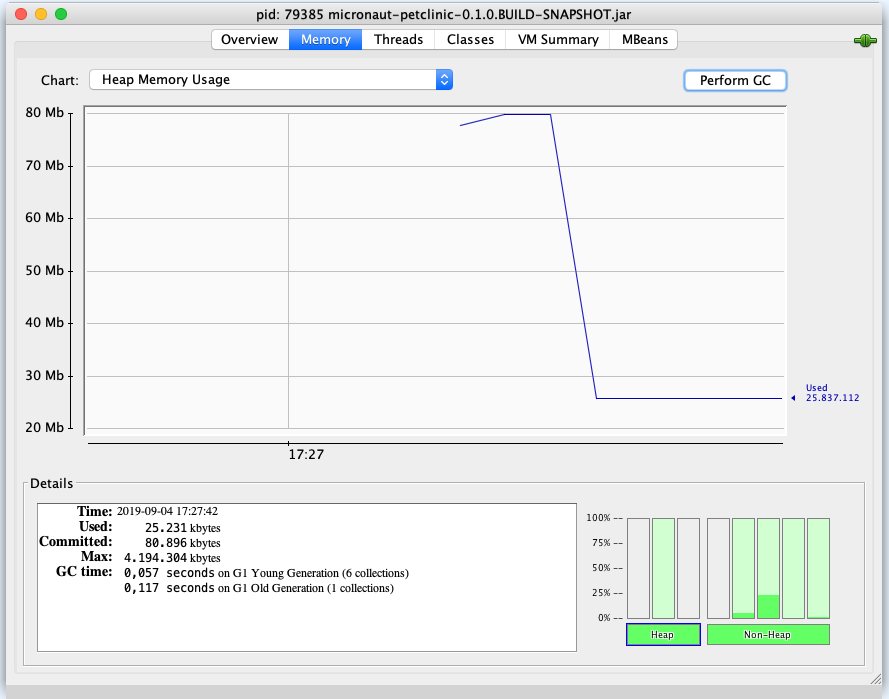
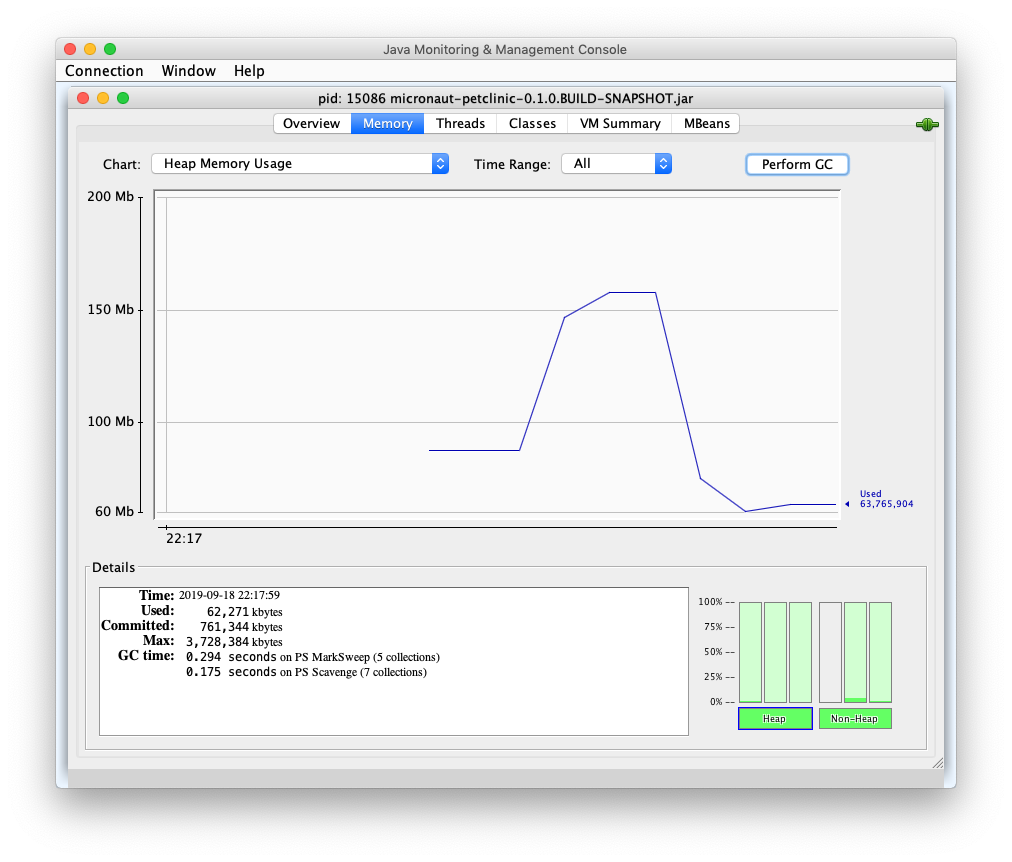
Update readme

diff --git a/readme.md b/readme.md
@@ -1,166 +1,138 @@
 # Introduction
 
-The aim of this repo is to measure some features of an Micronaut application and its Docker image. 
-Instead of creating a new Micronaut demo from scratch, it is based on [Micronaut migration](https://github.com/graemerocher/micronaut-petclinic) of [Spring PetClinic](https://github.com/spring-projects/spring-petclinic).
+The aim of this repo is to measure some features of a Micronaut application and its Docker image. 
+Instead of creating a new Micronaut demo from scratch, it is based on 
+[Micronaut migration](https://github.com/graemerocher/micronaut-petclinic) 
+of [Spring PetClinic](https://github.com/spring-projects/spring-petclinic).
 
 #  Size
 
-## Micronaut artifact's size
+## Spring Boot artifact's size
 
 Build PetClinic application:
 
 ```
-    git clone https://github.com/wearearima/micronaut-docker-study.git
-    cd micronaut-docker-study
-    ./mvnw clean package
+git clone https://github.com/wearearima/micronaut-docker-study.git
+cd micronaut-docker-study
+./mvnw clean package
 ```
 
 Measure the jar files:
 
 ```
-    ls -lh target/*.jar*
+ls -lh target/*.jar*
 ```
 
 Result:
 
 ```
--rw-r--r--  1 ugaitz  staff    36M Sep  4 16:41 target/micronaut-petclinic-0.1.0.BUILD-SNAPSHOT.jar
--rw-r--r--  1 ugaitz  staff   605K Sep  4 16:40 target/original-micronaut-petclinic-0.1.0.BUILD-SNAPSHOT.jar
+-rw-r--r--  1 inigotelleria  staff    37M Sep 18 22:12 target/micronaut-petclinic-0.1.0.BUILD-SNAPSHOT.jar
+-rw-r--r--  1 inigotelleria  staff   637K Sep 18 22:12 target/original-micronaut-petclinic-0.1.0.BUILD-SNAPSHOT.jar
 ```
 
 The file named `micronaut-petclinic-0.1.0.BUILD-SNAPSHOT` is the resulting fat jar because it includes
-PetClinic's code and its dependencies. The other file, suffixed `.original`, is just PetClinic's code
-without its dependencies. The result is that our code size is `605K` and the dependencies' `36M`. 
-
+PetClinic's code and its dependencies. The other file, prefixed `.original`, is just PetClinic's code
+without its dependencies. The result is that our code size is `637K` and the dependencies' `37M`. 
 
 ## Docker image's size
 
-The original Micronaut PetClinic application already has a Dockerfile to build and run project in GraalVM, 
-for our measurements we have created another Dockerfile.
 Build PetClinic's Docker image:
 
 ```
-    docker-compose -f docker-compose-runjava.yml build
+./mvnw jib:dockerBuild
 ```
 
 Measure the image size:
 
 ```
-    docker image ls | grep micronaut-petclinic-java
+docker image ls | grep micronaut-petclinic
 ```
 
 Result:
 
 ```
-micronaut-petclinic-java        latest              3c0f411ba9c1        15 hours ago        143MB
+micronaut-petclinic                                              0.1.0.BUILD-SNAPSHOT    7607b6166a45        49 years ago        129MB
 ```
 
-We can see that size of the artifact has increased from `36MB` to `143MB`. This is mainly because the 
+We can see that size of the artifact has increased from `36M` to `129MB`. This is mainly because the 
 Docker image includes the JDK and Linux images. Run this command to check it:
 
 ```
-    docker image history micronaut-petclinic-java
+docker image history micronaut-petclinic:0.1.0.BUILD-SNAPSHOT
 ```
 
 The result shows the different layers added to the Docker image:
 
 ```
-➜  micronaut-docker-study git:(master) ✗ docker image history micronaut-petclinic-java
+[micronaut-docker-study] docker image history micronaut-petclinic:0.1.0.BUILD-SNAPSHOT                                                                                                                                                                       master  ✭ ✱
 IMAGE               CREATED             CREATED BY                                      SIZE                COMMENT
-3c0f411ba9c1        15 hours ago        /bin/sh -c #(nop)  CMD ["/bin/sh" "-c" "/usr…   0B                  
-bf33527b993f        15 hours ago        /bin/sh -c #(nop)  EXPOSE 8080                  0B                  
-df1e49f75aa4        15 hours ago        /bin/sh -c #(nop) COPY file:75746e4928644a0a…   37.8MB              
-8bced513ccd7        16 hours ago        /bin/sh -c #(nop)  ARG JAR_FILE                 0B                  
-f2ff0b12ec0f        16 hours ago        /bin/sh -c #(nop)  VOLUME [/tmp]                0B                  
-a3562aa0b991        3 months ago        /bin/sh -c set -x  && apk add --no-cache   o…   99.3MB              
-<missing>           3 months ago        /bin/sh -c #(nop)  ENV JAVA_ALPINE_VERSION=8…   0B                  
-<missing>           3 months ago        /bin/sh -c #(nop)  ENV JAVA_VERSION=8u212       0B                  
-<missing>           3 months ago        /bin/sh -c #(nop)  ENV PATH=/usr/local/sbin:…   0B                  
-<missing>           3 months ago        /bin/sh -c #(nop)  ENV JAVA_HOME=/usr/lib/jv…   0B                  
-<missing>           3 months ago        /bin/sh -c {   echo '#!/bin/sh';   echo 'set…   87B                 
-<missing>           3 months ago        /bin/sh -c #(nop)  ENV LANG=C.UTF-8             0B                  
-<missing>           3 months ago        /bin/sh -c #(nop)  CMD ["/bin/sh"]              0B                  
-<missing>           3 months ago        /bin/sh -c #(nop) ADD file:a86aea1f3a7d68f6a…   5.53MB 
+7607b6166a45        49 years ago        jib-maven-plugin:1.5.1                          598kB               classes
+<missing>           49 years ago        jib-maven-plugin:1.5.1                          936kB               resources
+<missing>           49 years ago        jib-maven-plugin:1.5.1                          432kB               snapshot dependencies
+<missing>           49 years ago        jib-maven-plugin:1.5.1                          37.2MB              dependencies
+<missing>           3 days ago          /bin/sh -c #(nop)  ENV JAVA_HOME=/opt/java/o…   0B                  
+<missing>           3 days ago          /bin/sh -c set -eux;     apk add --no-cache …   75.7MB              
+<missing>           3 days ago          /bin/sh -c #(nop) COPY multi:cf4be6a9ef2b0c0…   15.6kB              
+<missing>           3 days ago          /bin/sh -c #(nop)  ENV JAVA_VERSION=jdk8u222…   0B                  
+<missing>           3 days ago          /bin/sh -c apk add --no-cache --virtual .bui…   8.88MB              
+<missing>           3 days ago          /bin/sh -c #(nop)  ENV LANG=en_US.UTF-8 LANG…   0B                  
+<missing>           4 weeks ago         /bin/sh -c #(nop)  CMD ["/bin/sh"]              0B                  
+<missing>           4 weeks ago         /bin/sh -c #(nop) ADD file:fe64057fbb83dccb9…   5.58MB     
 ```
 
-The `5.53MB` image is the Alpine Linux image and the `99.3MB` image is the JDK8 image. The sum of all them results in an image of
-`143MB` which includes Linux OS, JDK8, PetClinic's code and dependencies' jar.  
+The `5.58MB` image is the Alpine Linux image and the `75.7MB` image is the JDK8 image. The sum of all layers results in 
+an image of `129MB` which includes Linux OS, JDK8, PetClinic's code and dependencies' jar.  
 
 > Different Linux image comparison at https://github.com/gliderlabs/docker-alpine#why 
 
+# Startup time
+
+Before running PetClinic application the database must be started with this command:
+
+```
+docker-compose run --publish 5432:5432 db 
+``` 
+
+Afterwards, run PetClinic application with this command:
+
+```
+java -jar target/micronaut-petclinic-0.1.0.BUILD-SNAPSHOT.jar
+```
+
+The applications starts in `2,31 seconds` using AdoptOpenJDK 1.8.0_222-b10:
+
+```
+Startup completed in 2310ms. Server Running: http://localhost:8080
+```
 
 # Memory usage
 
-## PetClinic artifact's memory usage
-
-Run PetClinic application with this command:
-
-```
-java -jar target/micronaut-petclinic-0.1.0.BUILD-SNAPSHOT.jar
-```
-
-Open `JConsole` (or other profiler such as YourKit) and measure the heap after executing Garbage Collector (GC). The 
-result is this:
+After navigating through the application to make sure all beans are loaded, open `JConsole` or other profiler such as 
+YourKit. Measure the heap after executing Garbage Collector (GC). 
 
 ![jconsole-result](jconsole/result.png)
 
-With no load the application's heap consumption is around `25MB` . However, the memory consumption is bigger than just the
+With no load the application's heap consumption is around `60MB` . However, the memory consumption is bigger than just the
 heap, so let's measure it using ``ps`` command:
 
 ```
-➜  micronaut-docker-study git:(master) ✗ ps aux 79385
-USER     PID  %CPU %MEM      VSZ    RSS   TT  STAT STARTED      TIME COMMAND
-ugaitz 79385   0,0  1,2 10285576 195516 s002  S+    5:26PM   0:12.16 java -jar target/micronaut-petclinic-0.1.0.BUILD-SNAPSHOT.jar
+[micronaut-docker-study] ps aux 14526
+USER    PID  %CPU %MEM      VSZ    RSS   TT  STAT STARTED      TIME COMMAND
+inigo    14526   0.0  3.3 10414692 561908 s005  S+   10:17PM   0:10.81 /usr/bin/java -jar target/micronaut-petclinic-0.1.0.BUILD-SNAPSHOT.jar
 ```
 
-We can see that PetClinic's process actually is using almost `200MB` of memory.  
-
-## Docker image's memory usage
-
-Run a PetClinic container with this command:
-
-```
-docker-compose -f docker-compose-runjava.yml up 
-```
-
-Executing ``docker stats`` we can find out how much memory is using the container with no load:
-
-```
-CONTAINER ID        NAME                           CPU %               MEM USAGE / LIMIT     MEM %               NET I/O             BLOCK I/O           PIDS
-7cdb35fbbc57        micronaut-docker-study_app_1   0.39%               158.9MiB / 1.952GiB   7.95%               72.8kB / 55.2kB     1.09MB / 0B         14
-```
-
-So, the container uses ``159MB`` of memory. 
-
-# Startup time
-
-## PetClinic artifact's startup time
-Run PetClinic application with this command:
-
-```
-java -jar target/micronaut-petclinic-0.1.0.BUILD-SNAPSHOT.jar
-```
-
-```
-09:19:22.743 [main] INFO  io.micronaut.runtime.Micronaut - Startup completed in 3649ms. Server Running: http://localhost:8080
-```
-We can see in app logs that the startup time is 3 649ms.
-
-
+We can see that PetClinic's process actually is using almost `560MB` of memory.  
 
 # Summary
 
-| Feature                                           | Micronaut 1.1.2 |
+| Feature                                           | Micronaut 1.2.2   |
 | ------------------------------------------------- | ----------------- |
-| Micronaut App disk usage                          | 36M               |
-| Micronaut App disk usage (without dependencies)   | 605KB             |
-| Docker Container disk usage                       | 143MB             |
-| Micronaut App heap consumption                    | 25MB              |
-| Micronaut App memory usage                        | 200MB             |
-| Docker container memory usage                     | 159MB             |
-| Micronaut App startup time                        | 3 649ms
-
-
+| Micronaut App disk usage                          | 37M               |
+| Micronaut App disk usage (without dependencies)   | 637KB             |
+| Docker Container disk usage                       | 129MB             |
+| Micronaut App startup time                        | 2,31 seconds      |
+| Micronaut App heap consumption                    | 60MB              |
+| Micronaut App memory usage                        | 560MB             |
 
 # Credits
 
@@ -168,7 +140,4 @@ Original PetClinic by https://www.spring.io
 
 Micronaut PetClinic by [Graeme Rocher github repository](https://github.com/graemerocher/micronaut-petclinic)
 
-Docker configuration by https://www.arima.eu
-
 ![ARIMA Software Design](https://arima.eu/arima-claim.png)
-
